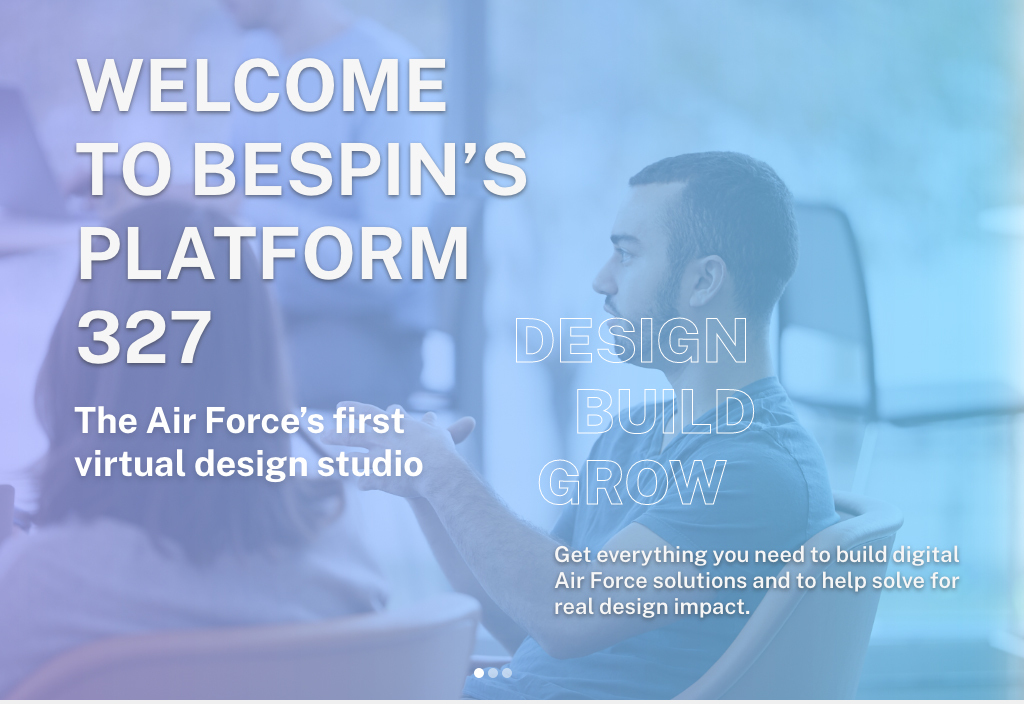
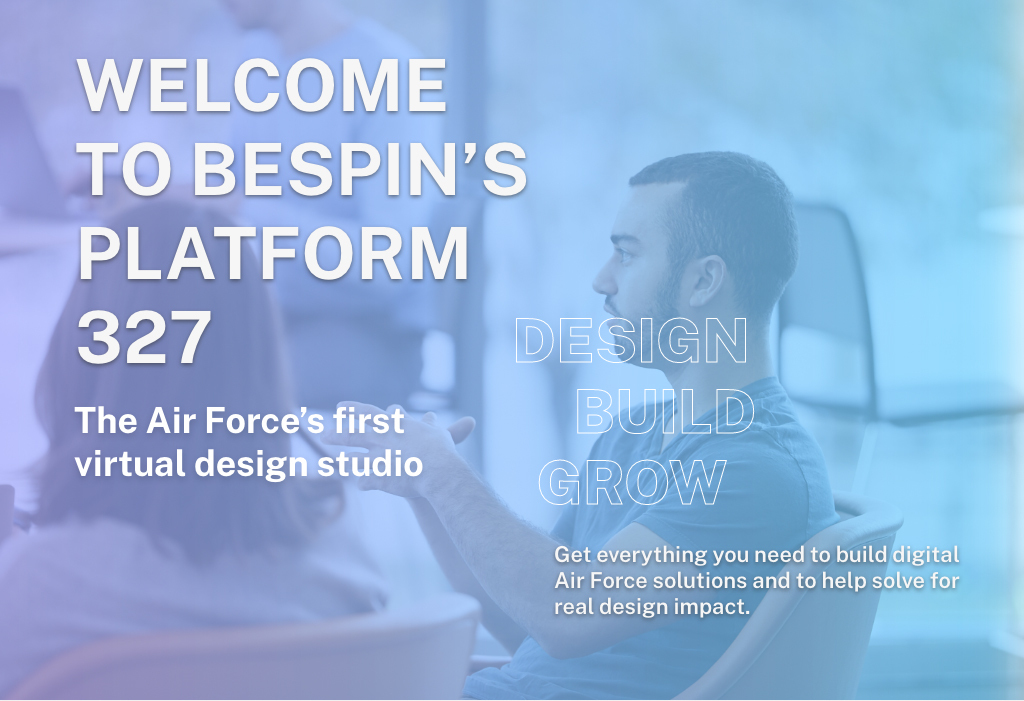
added carosel

diff --git a/pages/altcarousel.js b/pages/altcarousel.js
@@ -8,9 +8,9 @@ import Search from '../src/components/Search'
 import GovBanner from '../src/components/GovBanner'
 import Link from '../src/components/Link'
 import BespinLogo from '../src/assets/images/BESPIN-Logo.png'
-// import "react-responsive-carousel/lib/styles/carousel.min.css"; 
-// import { Carousel } from 'react-responsive-carousel';
-import Carousel from 'react-elastic-carousel'
+import "react-responsive-carousel/lib/styles/carousel.min.css"; 
+import { Carousel } from 'react-responsive-carousel';
+// import Carousel from 'react-elastic-carousel'
 
 
 export default function AltCarousel() {
@@ -60,13 +60,13 @@ export default function AltCarousel() {
                 <span>FAQ</span>
               </a>,
               <a href="/uxlibrary" key="three" className="usa-nav__link">
-              <span>UX Library</span>
+              <span>Resources</span>
             </a>,
               <a href="/apps" key="three" className="usa-nav__link">
               <span>Apps</span>
             </a>,
               <a href="/platform327" key="three" className="usa-nav__link">
-              <span>Platform327</span>
+              <span>Enroll</span>
             </a>,                                      
             ]}
             mobileExpanded={null}
@@ -78,39 +78,39 @@ export default function AltCarousel() {
       </>
 
         <main id="main-content">
-          {/* <Carousel
+          <Carousel
             showArrows={false}
             showStatus={false}
             dynamicHeight={false}
             showThumbs={false}
             autoplay
             infiniteLoop={true}
-            transitionTime={50}
-            interval={3}
+            transitionTime={150}
+            interval={3000}
             swipeable={true}
             showIndicators={true}
             useKeyboardArrows={true}
           >
-                <div>
+                <div className={styles.carousel}>
                   <img src="/home1.png" style={{width: '960px'}}/>
                 </div>
-                <div>
+                <div className={styles.carousel}>
                   <img src="/home2.png" style={{width: '960px'}}/>
                 </div>
-                <div>
+                <div className={styles.carousel}>
                   <img src="/home3.png" style={{width: '960px'}} />
                 </div>
-          </Carousel> */}
+          </Carousel>
         </main>
 
         <div className="usa-footer__primary-section">
           <nav className="usa-footer__nav" aria-label="Footer navigation">
             <ul className="grid-row grid-gap">
               <li className="mobile-lg:grid-col-4 desktop:grid-col-auto usa-footer__primary-content">
-                <a className="usa-footer__primary-link" href="/">Home</a>
+                <a className="usa-footer__primary-link" href="#">Home</a>
               </li>
               <li className="mobile-lg:grid-col-4 desktop:grid-col-auto usa-footer__primary-content">
-                <a className="usa-footer__primary-link" href="#">Contact</a>
+                <a className="usa-footer__primary-link" href="/contact">Contact</a>
               </li>
               <li className="mobile-lg:grid-col-4 desktop:grid-col-auto usa-footer__primary-content">
                 <a className="usa-footer__primary-link" href="#">Privacy Policy</a>
@@ -145,14 +145,14 @@ export default function AltCarousel() {
                     </a>
                   </div>
                 </div>
-                <h3 className="usa-footer__contact-heading text-white">Agency Contact</h3>
+                <h3 class="usa-footer__contact-heading text-white">Agency Contact Center</h3>
                 <address className="usa-footer__address">
                   <div className="usa-footer__contact-info grid-row grid-gap">
-                    <div className="grid-col-auto">
-                      <a href="tel:1-800-888-1234" className={styles.footerText}>(800) 888-1234</a>
+                    <div class="grid-col-auto">
+                      {/* <a href="tel:1-800-888-1234" className={styles.footerText}>(800) 888-1234</a> */}
                     </div>
-                    <div className="grid-col-auto">
-                      <a href="mailto:info@agency.gov" className={styles.footerText}>info@platform327.org</a>
+                    <div class="grid-col-auto">
+                      <a href="mailto:info@agency.gov" className={styles.footerText}>BESPIN.af@gmail.com</a>
                     </div>
                   </div>
                 </address>

diff --git a/styles/Home.module.css b/styles/Home.module.css
@@ -947,3 +947,7 @@
   opacity: 1;
   margin-top: 4px;
 }
+
+.carousel {
+  background-color: #ffffff;
+}
